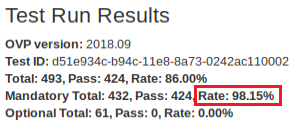
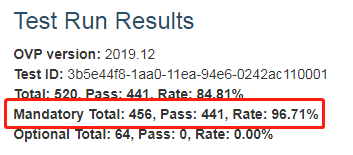
Update reviewer guide
JIRA: DOVETAIL-794

diff --git a/docs/testing/user/reviewerguide/index.rst b/docs/testing/user/reviewerguide/index.rst
@@ -2,9 +2,9 @@
 .. http://creativecommons.org/licenses/by/4.0
 .. (c) Ericsson AB
 
-=============================================
+==================
 OVP Reviewer Guide
-=============================================
+==================
 
 .. toctree::
    :maxdepth: 2
@@ -16,120 +16,110 @@ Introduction
 This document provides detailed guidance for reviewers on how to handle the result review
 process.
 
-The OPNFV Verified program (OVP) provides the ability for users to upload test results in
+The OPNFV Verification Program (OVP) provides the ability for users to upload test results in
 `OVP portal <https://nfvi-verified.lfnetworking.org>`_ and request from OVP community to review them.
-After the user submit for review the test results **Status** is changed from 'private' to 'review'
-(as shown in figure 2).
 
 OVP administrator will ask for review volunteers using the ovp-support@lfnetworking.org email alias.
 The incoming results for review will be identified by the administrator with particular **Test ID**
 and **Owner** values.
 
 Volunteers that will accept the review request can access the test results by login to the
-`OVP portal <https://nfvi-verified.lfnetworking.org>`_ and the click on the **My Results** tab in top-level
-navigation bar.
+`OVP portal <https://nfvi-verified.lfnetworking.org>`_ and then click on the **Incoming Reviews**
+tab in top-level navigation bar.
 
 .. image:: images/ovp_top_nav.png
     :align: center
     :scale: 100%
 
-Figure 1
 
-The corresponding OVP portal result will have a status of 'review'.
+After the user submit for review the test results **Status** is changed from 'private' to 'review'.
+Reviewers can find that the corresponding OVP portal result will have a status of 'review'.
+Also there are **Application** information list here for review. All the application information
+is submitted by users at the same time they submit their results for review. Reviewers can also
+find who has already approve/not approve the test results by clicking on the **View Reviews**.
 
 .. image:: images/ovp_result_review.png
     :align: center
     :scale: 100%
 
-Figure 2
 
 Reviewers must follow the checklist below to ensure review consistency for the OPNFV
-Verified Program (OVP) 2018.09 (Fraser) release at a minimum.
+Verification Program (OVP) 2019.12 (Hunter) release at a minimum.
 
-#. **Mandatory Test Area Results** - Validate that results for all mandatory test areas are present.
-#. **Test-Case Pass Percentage** - Ensure all tests have passed (100% pass rate).
-#. **Log File Verification** - Inspect the log file for each test area.
+#. **Test Case Pass Percentage** - Ensure all mandatory tests have passed (100% pass rate).
+#. **Mandatory Test Case Results** - Validate that results for all mandatory test cases are present.
+#. **Log File Verification** - Inspect the log file for each test case.
 #. **SUT Info Verification** - Validate the system under test (SUT) hardware and software endpoint info is present.
 
 
+Test Case Pass Percentage
+=========================
 
-1. Mandatory Test Area Results
-==============================
-
-Test results can be displayed by clicking on the hyperlink under the 'Test ID' column.
-User should validate that results for all mandatory test areas are included in the overall test suite. The required
-mandatory test cases are:
-
-- functest.vping.userdata
-- functest.vping.ssh
-- bottlenecks.stress.ping
-- functest.tempest.osinterop
-- functest.tempest.compute
-- functest.tempest.identity_v3
-- functest.tempest.image
-- functest.tempest.network_api
-- functest.tempest.volume
-- functest.tempest.neutron_trunk_ports
-- functest.tempest.ipv6_api
-- functest.security.patrole
-- yardstick.ha.nova_api
-- yardstick.ha.neutron_server
-- yardstick.ha.keystone
-- yardstick.ha.glance_api
-- yardstick.ha.cinder_api
-- yardstick.ha.cpu_load
-- yardstick.ha.disk_load
-- yardstick.ha.haproxy
-- yardstick.ha.rabbitmq
-- yardstick.ha.database
-
-*Note, that the 'Test ID' column in this view condenses the UUID used for 'Test ID' to
-eight characters even though the 'Test ID' is a longer UUID in the back-end.*
-
-.. image:: images/ovp_result_overview.png
-    :align: center
-    :scale: 100%
-
-Figure 3
-
-2. Test-Case Pass Percentage
-============================
-
-All mandatory test-cases have to run successfully. The below diagram of the 'Test Run Results' is one method and
-shows that 98.15% of the mandatory test-cases have passed.
+All mandatory test cases have to run successfully. The below figure of the **Test Run Results**
+is one method and shows that 96.71% of the mandatory test cases have passed.
 This value must not be lower than 100%.
 
 .. image:: images/ovp_pass_percentage.png
     :align: center
     :width: 350 px
 
-Figure 4
 
-Failed test cases can also be easy identified by the color of pass/total number. :
+Mandatory Test Case Results
+===========================
 
-- Green when all test-cases pass
-- Orange when at least one fails
-- Red when all test-cases fail
+Test results can be displayed by clicking on the hyperlink under the **Test ID** column.
+Reviewers should validate that results for all mandatory test cases are included in the overall
+test suite. The required mandatory test cases are:
+
+- bottlenecks.stress.ping
+- functest.security.patrole
+- functest.tempest.compute
+- functest.tempest.identity_v3
+- functest.tempest.image
+- functest.tempest.ipv6_api
+- functest.tempest.network_api
+- functest.tempest.neutron_trunk_ports
+- functest.tempest.osinterop
+- functest.tempest.volume
+- functest.vping.ssh
+- functest.vping.userdata
+- yardstick.ha.cinder_api
+- yardstick.ha.cpu_load
+- yardstick.ha.database
+- yardstick.ha.disk_load
+- yardstick.ha.glance_api
+- yardstick.ha.haproxy
+- yardstick.ha.keystone
+- yardstick.ha.neutron_server
+- yardstick.ha.nova_api
+- yardstick.ha.rabbitmq
+
+*Note, that the 'Test ID' column in this view condenses the UUID used for 'Test ID' to
+eight characters even though the 'Test ID' is a longer UUID in the back-end.*
+
+Failed test cases can be easy identified by the color of pass/total number:
+
+- **Green** when all test cases pass
+- **Orange** when at least one fails/skips
+- **Red** when all test cases fail/skip
 
 .. image:: images/ovp_pass_fraction.png
     :align: center
     :width: 350 px
 
-Figure 5
 
-3. Log File Verification
-========================
+Log File Verification
+=====================
 
 Each log file of the mandatory test cases have to be verified for content.
 
 Log files can be displayed by clicking on the setup icon to the right of the results,
-as shown in figure below.
+as shown in the figure below.
 
 .. image:: images/ovp_log_setup.png
     :align: center
     :scale: 100%
 
-Figure 6
 
 *Note, all log files can be found at results/ directory as shown at the following table.*
 
@@ -148,37 +138,46 @@ Figure 6
 +------------------------+--------------------------+
 
 
-The bottlenecks log must contain the 'SUCCESS' result as shown in following example:
+Bottlenecks Logs
+----------------
 
-  2018-08-22 14:11:21,815 [INFO] yardstick.benchmark.core.task task.py:127 Testcase: "ping_bottlenecks" **SUCCESS**!!!
+It must contain the 'SUCCESS' result at the end of Bottlenecks log as shown in following example:
 
-Functest logs opens an html page that lists all test cases as shown in figure 7. All test cases must have run
-successfuly.
+  2019-12-03 07:35:14,630 [INFO] yardstick.benchmark.core.task task.py:129 Testcase: "ping_bottlenecks" SUCCESS!!!
 
-.. image:: images/ovp_log_files_functest_image.png
-    :align: center
-    :scale: 100%
 
-Figure 7
+Functest Logs
+-------------
 
-For the vping test area log file (functest.log). The two entries displayed in the tables below must be present in
-this log file.
+There are 2 different types of Functest logs, one is plain text for **vping** test cases and the other
+is html file for **tempest** and **security** test cases.
 
-**functest.vping_userdata**
+For **vping** test cases, two entries displayed in the tables below must be present in log files.
+
+**functest.vping.ssh**
 
 .. image:: images/ovp_vping_ssh.png
     :align: center
     :scale: 100%
 
-Figure 8
 
-**functest.vping_ssh**
+**functest.vping.userdata**
 
 .. image:: images/ovp_vping_user.png
     :align: center
     :scale: 100%
 
-Figure 9
+
+For **tempest** and **security** test cases, it opens an html page that lists all test cases as shown
+below. All test cases must have run successfully.
+
+.. image:: images/ovp_log_files_functest_image.png
+    :align: center
+    :scale: 100%
+
+
+Yardstick Logs
+--------------
 
 The yardstick log must contain the 'SUCCESS' result for each of the test-cases within this
 test area. This can be verified by searching the log for the keyword 'SUCCESS'.
@@ -190,29 +189,39 @@ An example of a FAILED and a SUCCESS test case are listed below:
  2018-08-28 10:23:41,907 [INFO] yardstick.benchmark.core.task task.py:127 Testcase: "opnfv_yardstick_tc052" **SUCCESS**!!!
 
 
-4. SUT Info Verification
-========================
+SUT Info Verification
+=====================
 
 SUT information must be present in the results to validate that all required endpoint services
 and at least two controllers were present during test execution. For the results shown below,
-click the '**info**' hyperlink in the **SUT** column to navigate to the SUT information page.
+click the **info** hyperlink in the **SUT** column to navigate to the SUT information page.
 
 .. image:: images/sut_info.png
     :align: center
     :scale: 100%
 
-Figure 10
 
-In the '**Endpoints**' listing shown below for the SUT VIM component, ensure that services are
+In the **Endpoints** listing shown below for the SUT VIM component, ensure that services are
 present for identify, compute, image, volume and network at a minimum by inspecting the
-'**Service Type**' column.
+**Service Type** column.
 
 .. image:: images/sut_endpoints.png
     :align: center
     :scale: 100%
 
-Figure 11
 
-Inspect the '**Hosts**' listing found below the Endpoints secion of the SUT info page and ensure
+Inspect the **Hosts** listing found below the Endpoints secion of the SUT info page and ensure
 at least two hosts are present, as two controllers are required the for the mandatory HA
-test-cases.
+test cases.
+
+
+Approve or Not Approve Results
+==============================
+
+When you decide to approve or not approve this test, you can click the **Operation** and choose
+**approve** or **not approve**. Once you have approved or not approved the test, you can click
+**View Reviews** to find the review status as shown below.
+
+.. image:: images/review_status.png
+    :align: center
+    :scale: 100%
